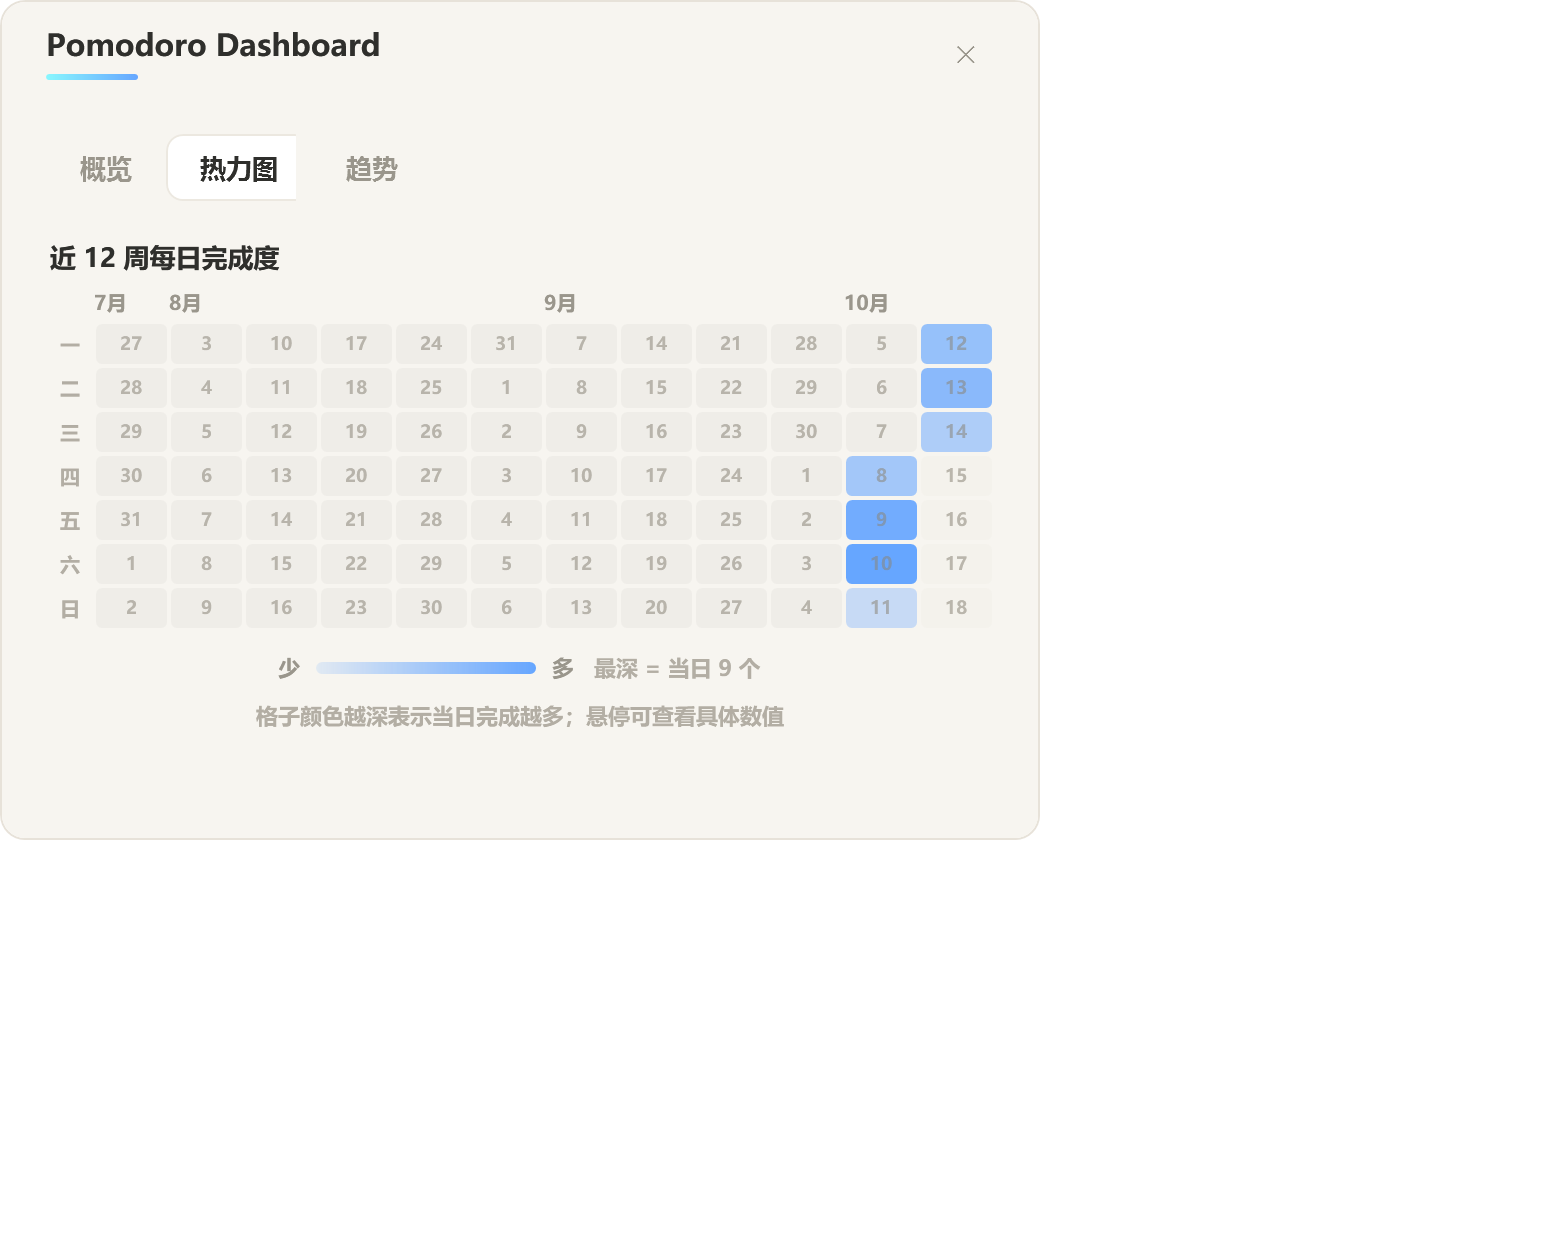
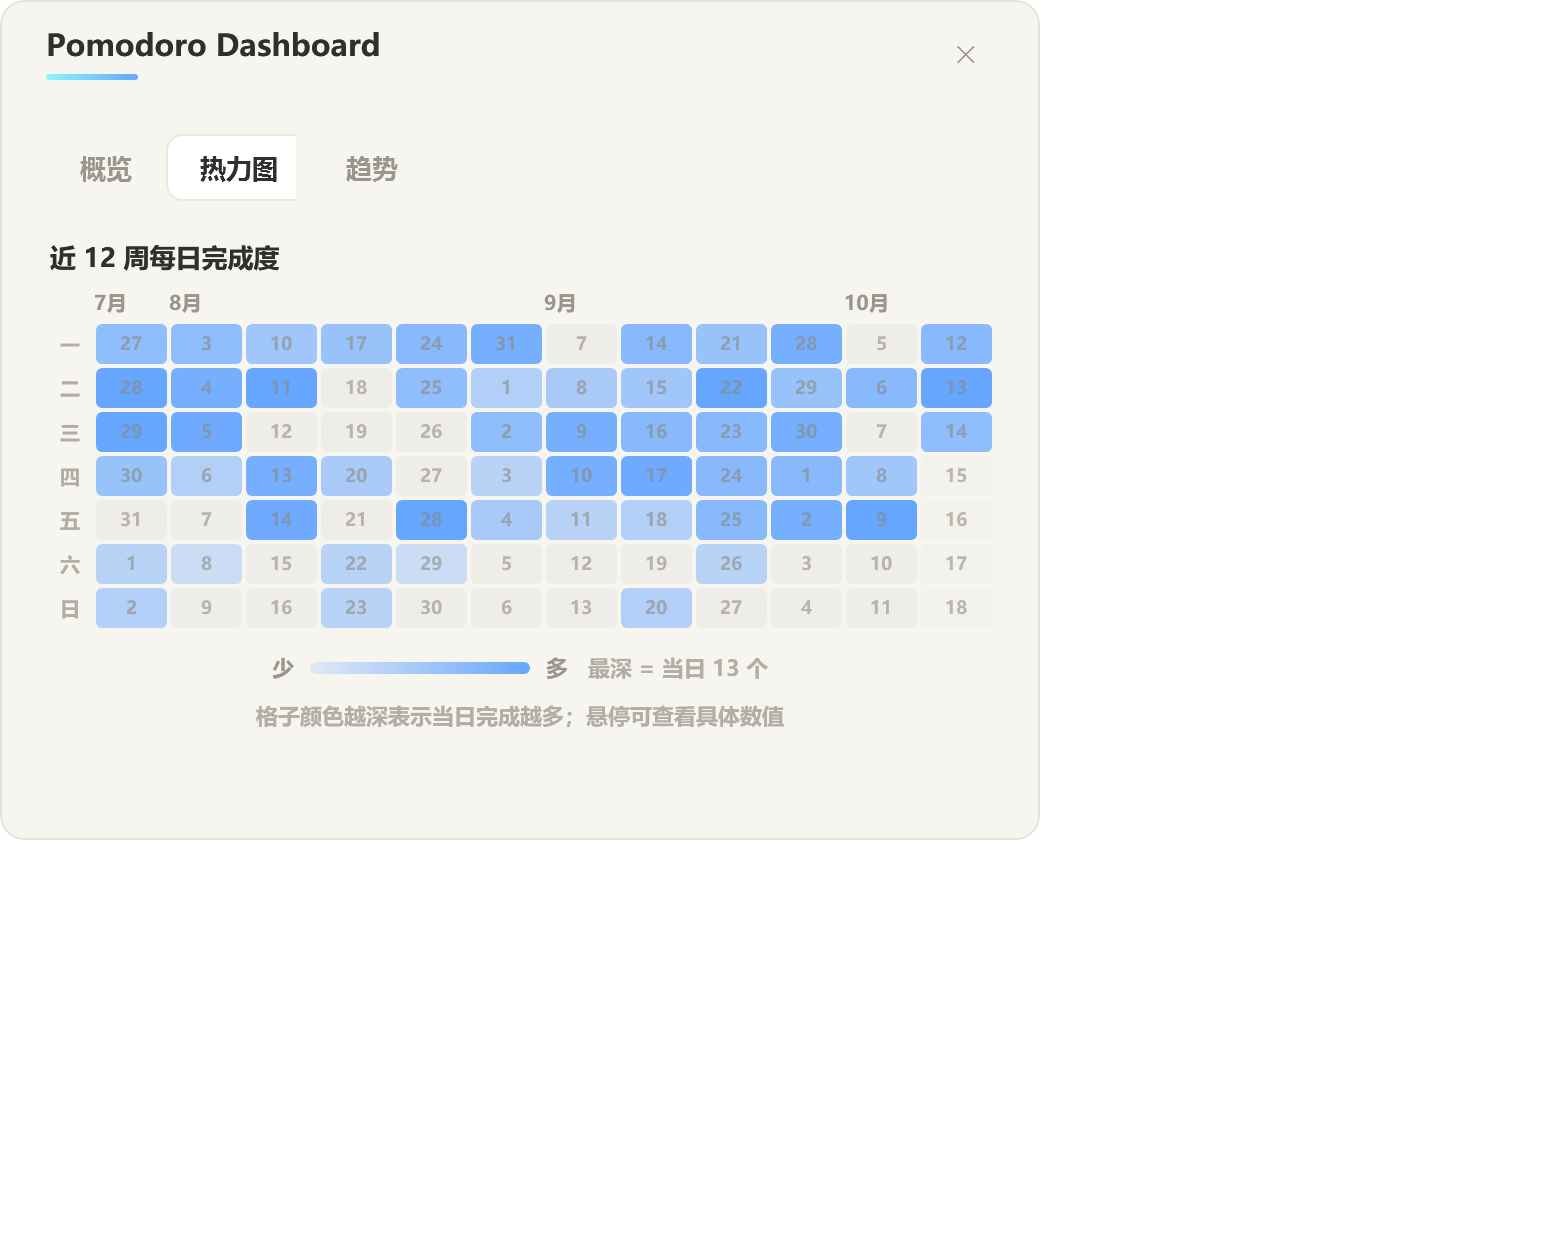
docs: 截图改用演示数据重渲染（热力图 12 周饱满、折线有起伏），四张图数据一致

Changed region(s): [[0.0615, 0.2476, 0.6462, 0.5571], [0.0615, 0.4333, 0.1538, 0.4952]]

diff --git a/README.md b/README.md
@@ -31,7 +31,7 @@ $ShowTotal = $false   # 累计
 
 ![Catime 窗口显示效果](screenshots/catime_display.png)
 
-**显示面板**（三个标签页，下图为真实使用数据）：
+**显示面板**（三个标签页，下图为演示数据）：
 
 | 概览 | 热力图 |
 |---|---|
